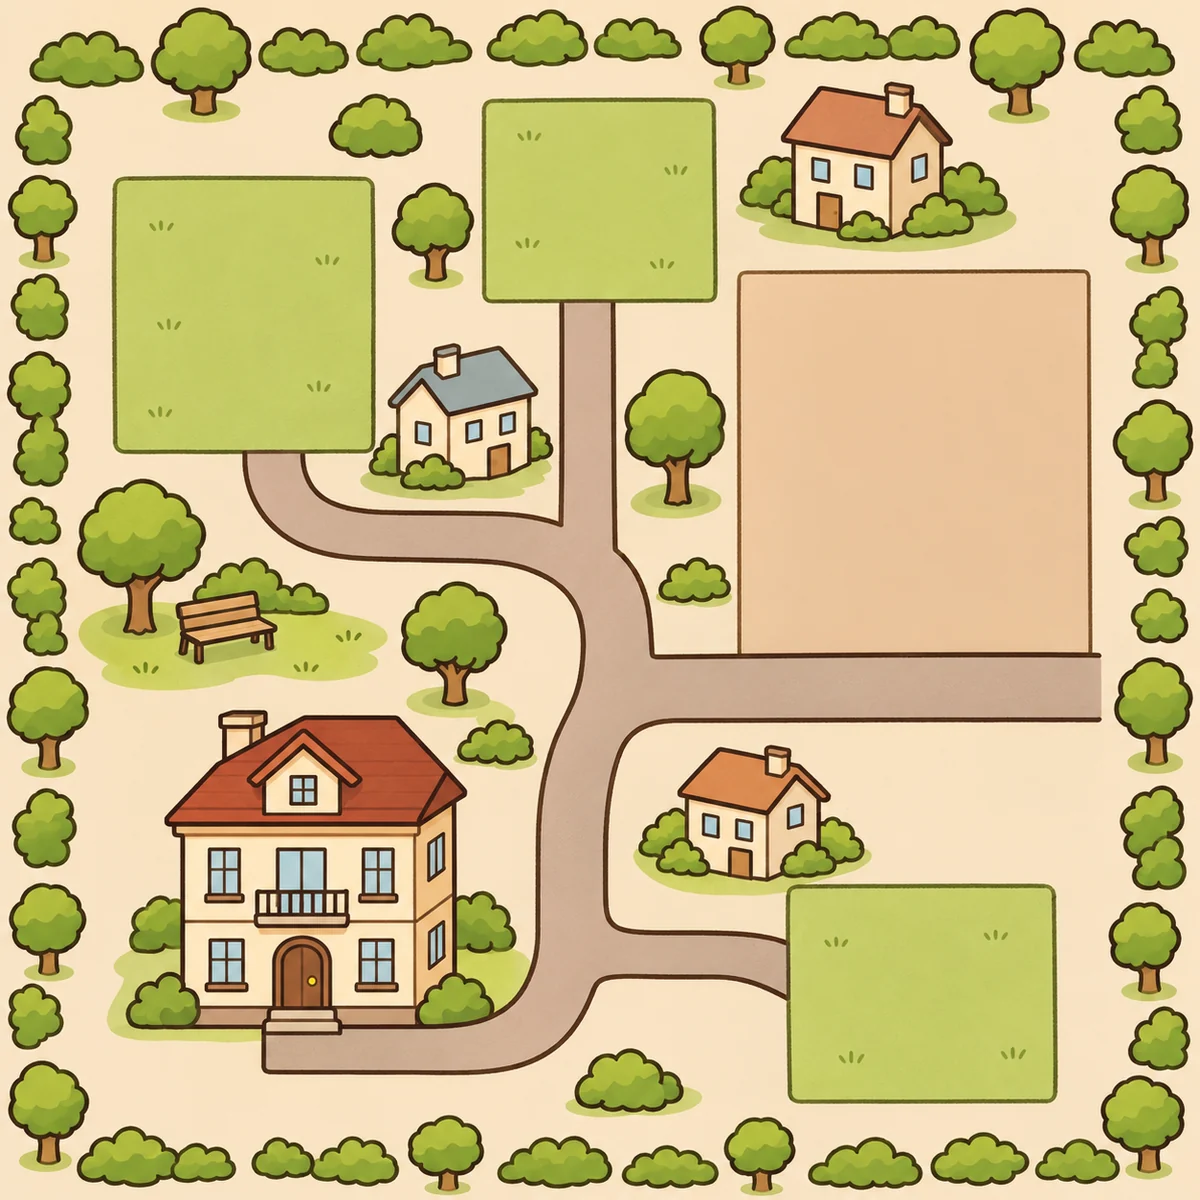
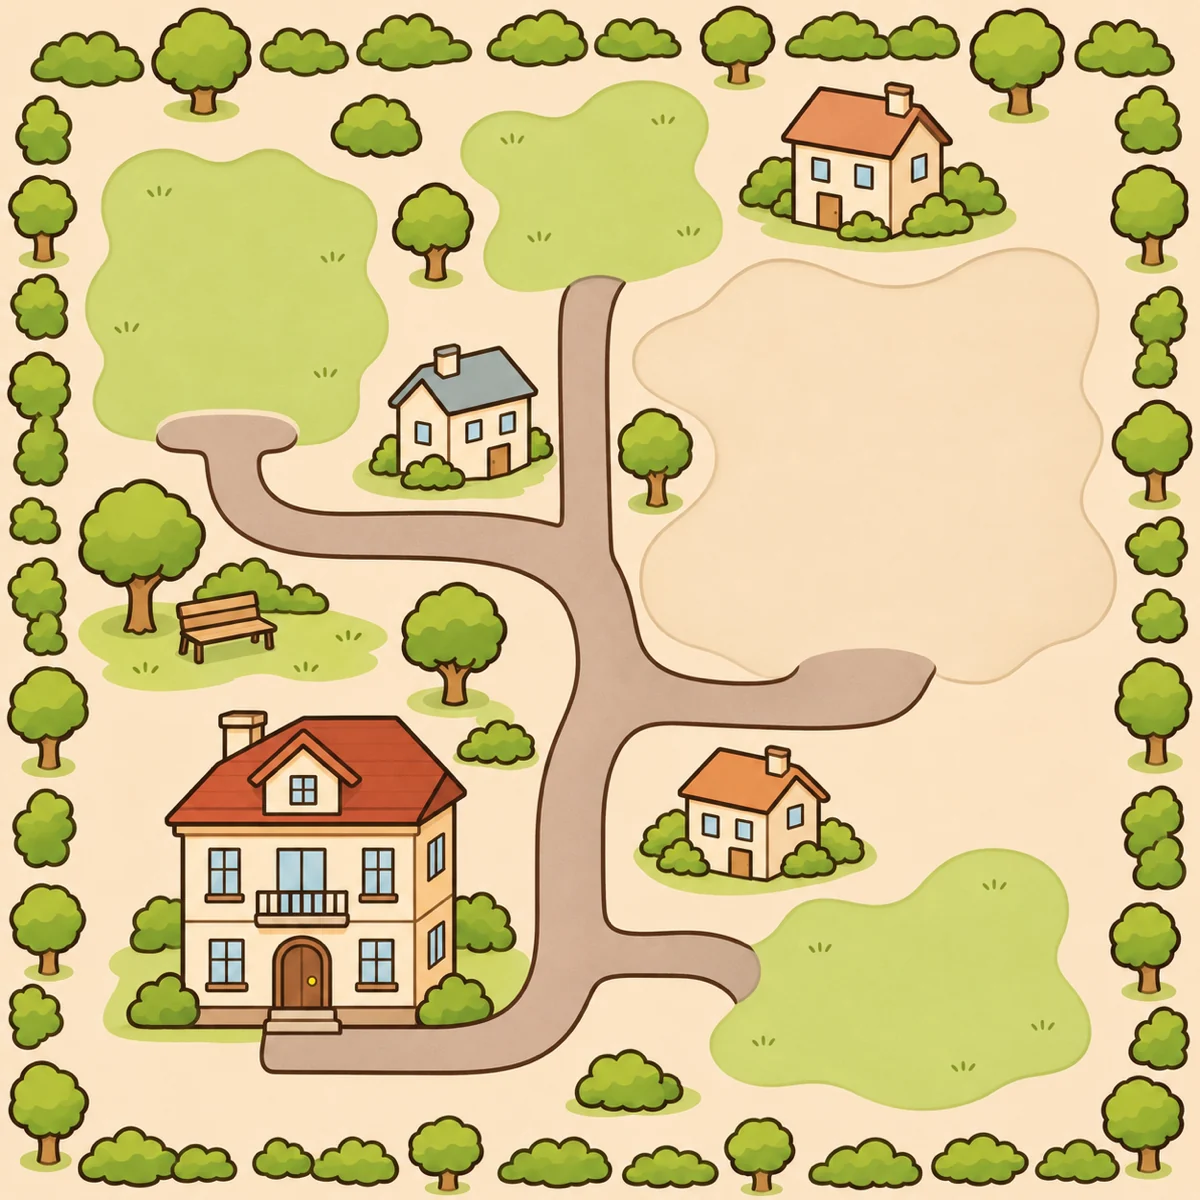
동네 약도 바탕 v2: 터·길을 둥글게 다시 그린 그림으로 바꿈
자리(집·만화방·광장 터·이름표)는 v1과 같아 좌표는 그대로. 캐시 때문에 base에 ?v=2

Claude-Session: https://claude.ai/code/session_013gkWdjqDwwMfs8SrUNHEXQ

diff --git a/assets/briefs/MANHWA_MAP_ART.md b/assets/briefs/MANHWA_MAP_ART.md
@@ -89,7 +89,7 @@
 ## 6. 파일 이름·규격
 
 - 원본(그림 일꾼이 두는 곳, git 무시 — 커밋하지 않음):
-  - `assets/manhwa/map/map-base-source-v1.png` (1200×1200 이상, 1:1, 종이색 바탕)
+  - `assets/manhwa/map/map-base-source-v2.png` (1200×1200 이상, 1:1, 종이색 바탕 — v2 2026-11-17: 터·길을 둥글게 다시 그림, 자리는 v1 그대로)
   - `assets/manhwa/map/shop-day-source-v1.png` (512×512 이상, 1:1, 투명)
   - `assets/manhwa/map/shop-night-source-v1.png` (day와 **같은 크기**, 투명)
 - 웹(커밋): `web/r/map/map-base.webp`·`shop-day.webp`·`shop-night.webp`
